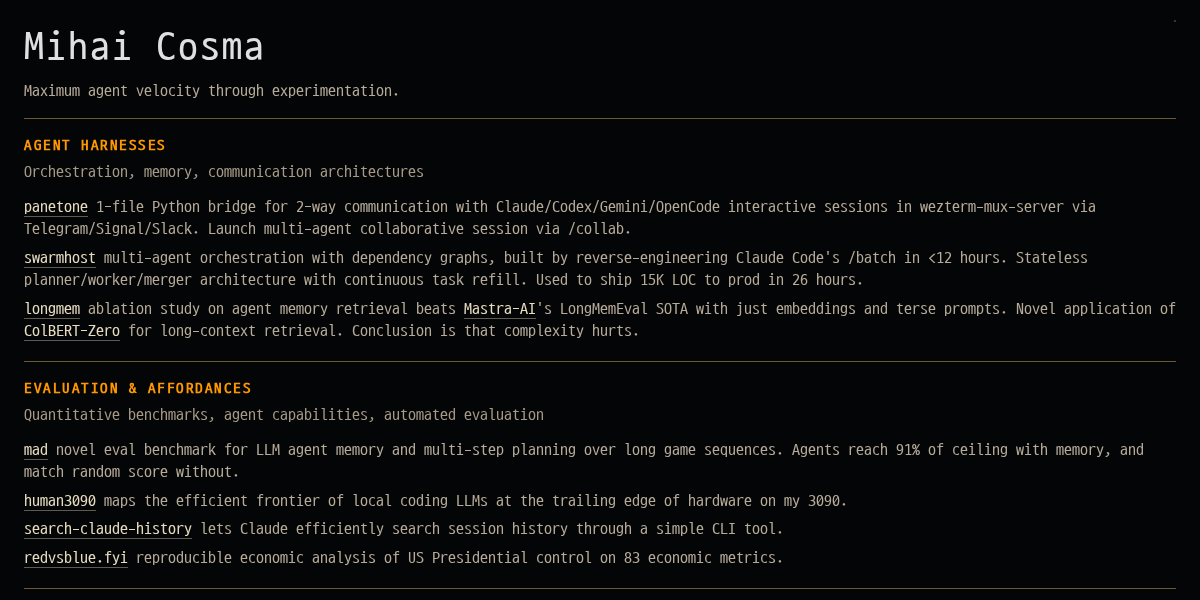
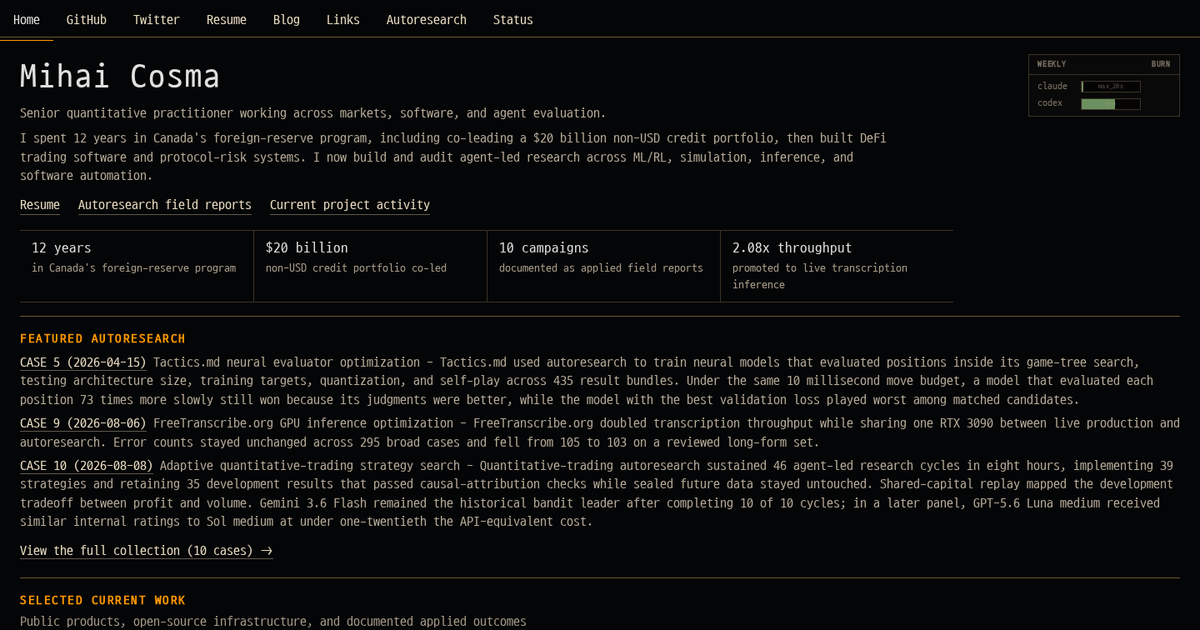
Refresh portfolio positioning and resume

Changed region(s): [[0.0, 0.0, 1.0, 1.0], [0.8633, 0.09, 0.9867, 0.21]]

diff --git a/resume.html b/resume.html
@@ -3,11 +3,14 @@
 <head>
     <meta charset="UTF-8">
     <meta name="viewport" content="width=device-width, initial-scale=1">
-    <title>Mihai Cosma — Resume</title>
+    <title>Mihai Cosma - Resume</title>
+    <meta name="description" content="Resume of Mihai Cosma, a senior quantitative practitioner working across markets, software, and agent evaluation.">
     <link rel="stylesheet" href="/style.css">
     <style>
         .contact { color: #a69987; margin-bottom: 16px; }
         .contact a { color: #a69987; }
+        .resume-summary { max-width: 1120px; margin-bottom: 8px; color: #b6aa99; }
+        .resume-focus { color: #a69987; font-size: 0.9rem; margin-bottom: 4px; }
 
         .job { margin-bottom: 12px; }
         .job-header { display: flex; justify-content: space-between; align-items: baseline; flex-wrap: wrap; gap: 8px; }
@@ -26,12 +29,26 @@
         .edu-title { color: #e0e0e0; }
         .edu-dates { color: #a69987; white-space: nowrap; font-size: 0.9rem; }
 
+        @page { size: Letter; margin: 0.35in; }
+
         @media print {
-            body { background: white; color: #333; }
-            h1 { color: #111; }
-            h2 { color: #b36000; border-top-color: #ccc; }
+            body { background: white; color: #333; padding: 0; font-size: 10pt; line-height: 1.3; }
+            h1 { color: #111; font-size: 24pt; margin-bottom: 1px; }
+            h2 { color: #b36000; border-top-color: #ccc; font-size: 9.5pt; margin-top: 9px; margin-bottom: 3px; padding-top: 9px; }
             a { color: #555; border-bottom-color: #ccc; }
-            .contact, .job-dates, .job-progression, .job-bullets li, .job-title a, .edu-dates { color: #555; }
+            .contact { margin-bottom: 8px; font-size: 9pt; }
+            .resume-summary { margin-bottom: 5px; font-size: 10pt; }
+            .resume-focus { margin-bottom: 0; font-size: 8.75pt; }
+            .projects li { padding: 1px 0; font-size: 9pt; }
+            .projects li a:first-child { font-size: 9.5pt; }
+            .job { margin-bottom: 6px; break-inside: avoid; }
+            .job-dates, .job-progression { font-size: 9pt; }
+            .job-bullets { margin-top: 2px; }
+            .job-bullets li { padding: 0 0 0 13px; font-size: 8.8pt; line-height: 1.22; }
+            .edu-dates { font-size: 9pt; }
+            .links { display: none; }
+            .contact, .resume-focus, .job-dates, .job-progression, .job-bullets li, .job-title a, .edu-dates { color: #555; }
+            .resume-summary { color: #333; }
             .job-title, .edu-title { color: #111; }
             .job-bullets li::before { color: #ccc; }
         }
@@ -61,34 +78,48 @@
         &middot; <a href="https://mihaicosma.com">mihaicosma.com</a>
         &middot; <a href="https://github.com/wakamex">github.com/wakamex</a>
     </p>
+    <p class="resume-summary">Senior finance and quantitative practitioner with 12 years in Canada's foreign-reserve program, including co-leading a $20 billion non-USD credit portfolio and managing credit allocation in a €14 billion portfolio. Built Python trading, fuzzing, and protocol-risk systems in DeFi. Since February 2026, published 10 applied autoresearch field reports across search, ML/RL, simulation, inference, and software automation that explicitly label evidence boundaries, failures, and promotion authority.</p>
+    <p class="resume-focus">Python &middot; SQL &middot; PostgreSQL &middot; JAX &middot; DuckDB &middot; agent evaluation &middot; reinforcement learning &middot; financial markets</p>
 
-    <h2>Selected Technical Projects</h2>
+    <h2>Selected Applied AI and Software Work</h2>
     <ul class="projects">
-        <li><a href="https://github.com/wakamex/panetone">Panetone</a> Python bridge for 2-way agent communication with Claude/Codex/Gemini sessions via Telegram/Signal/Slack. Multi-agent collaboration via /collab.</li>
-        <li><a href="https://github.com/wakamex/swarmhost">Swarmhost</a> Multi-agent orchestration with dependency graphs and continuous task refill. Stateless planner/worker/merger architecture. Shipped 15K LOC to prod in 26 hours.</li>
-        <li><a href="https://github.com/wakamex/longmem">longmem</a> Agent memory retrieval ablation study. Beats Mastra-AI's LongMemEval SOTA with embeddings and terse prompts. Tested ColBERT-Zero; found complexity hurts.</li>
-        <li><a href="https://github.com/wakamex/mad">mad</a> Eval benchmark for LLM agent memory and multi-step planning over long game sequences. Agents reach 91% of ceiling with memory, match random without.</li>
+        <li><a href="/autoresearch.html">Autoresearch field reports</a> Published 10 applied campaigns from February through August 2026 across search, ML/RL, simulation, inference, and software automation. The reports include negative results and distinguish adaptive discovery from promotion evidence.</li>
+        <li><a href="https://github.com/wakamex/agent-orchestration-process">Agent Orchestration Process</a> Built and published a Python CLI for bounded unattended work across eight coding-agent harnesses, with isolated worktrees, deadlines, least-authority profiles, exact session resume, declared artifact validation, and durable evidence.</li>
+        <li><a href="https://tactics.md">Tactics.md</a> Tested 102 CPU-pipeline interventions and uncovered eight correctness defects, then evaluated 435 neural-model result bundles. Under an equal move budget, the model with the best validation loss played worst among matched candidates.</li>
+        <li><a href="https://freetranscribe.org">FreeTranscribe.org</a> Built and operate an AI transcription service with a production-priority GPU queue. A sealed promotion doubled warm inference throughput on a shared RTX 3090 without increasing errors across 295 cases.</li>
+        <li><a href="https://github.com/wakamex/flysim">FlySim</a> Built a public flight-control stack with a CPU reference environment and batched JAX reinforcement learning. Exact replay localized a simulation-to-live coverage gap; retraining eliminated 14% control clipping without weakening live safety limits.</li>
     </ul>
 
     <h2>Work Experience</h2>
 
     <div class="job">
         <div class="job-header">
-            <span class="job-title">DeFi Strategist &middot; <a href="https://veda.tech">Veda Tech</a> / <a href="https://www.euler.finance">Euler Finance</a></span>
-            <span class="job-dates">Jun 2025 – Present</span>
+            <span class="job-title">DeFi Strategist &middot; <a href="https://veda.tech">Veda</a></span>
+            <span class="job-dates">Sep 2025 - Jul 2026</span>
         </div>
         <ul class="job-bullets">
-            <li>Shipped 15K LOC to prod in 26 hours to monitor on-chain transactions in real-time</li>
+            <li>Managed and curated vaults; produced protocol-risk analysis and monitored transaction, liquidity, oracle, and smart-contract data</li>
+            <li>Used Python, SQL, and PostgreSQL to combine blockchain and internal data, investigate anomalies, and support decisions</li>
+        </ul>
+    </div>
+
+    <div class="job">
+        <div class="job-header">
+            <span class="job-title">DeFi Strategist &middot; <a href="https://www.euler.finance">Euler Finance</a></span>
+            <span class="job-dates">Jun 2025 - Sep 2025</span>
+        </div>
+        <ul class="job-bullets">
+            <li>Led go-to-market and outreach for the EulerSwap protocol</li>
         </ul>
     </div>
 
     <div class="job">
         <div class="job-header">
             <span class="job-title">DeFi Strategist &middot; <a href="https://delv.tech">DELV</a></span>
-            <span class="job-dates">Dec 2021 – Apr 2025</span>
+            <span class="job-dates">Dec 2021 - Apr 2025</span>
         </div>
         <ul class="job-bullets">
-            <li>Wrote <a href="https://github.com/delvtech/agent0">agent0</a>: Python SDK and fuzzing framework for Hyperdrive protocol's agent-based trading system</li>
+            <li>Built <a href="https://github.com/delvtech/agent0">agent0</a>, the Python SDK and fuzzing framework for Hyperdrive's agent-based trading system</li>
             <li>Co-authored <a href="https://arxiv.org/abs/2404.05036">"The Hyperdrive Protocol: An Automated Market Maker for Fixed and Variable Rates"</a></li>
             <li>Designed incentive mechanisms leading to record protocol volume</li>
         </ul>
@@ -97,12 +128,14 @@
     <div class="job">
         <div class="job-header">
             <span class="job-title">Foreign Reserves &middot; <a href="https://www.bankofcanada.ca">Bank of Canada</a></span>
-            <span class="job-dates">Jul 2009 – Dec 2021</span>
+            <span class="job-dates">Jul 2009 - Dec 2021</span>
         </div>
         <p class="job-progression">Research Assistant → Trader Analyst → Portfolio Manager → Policy Analyst → Senior Portfolio Manager</p>
         <ul class="job-bullets">
-            <li>Co-managed $20B non-USD credit portfolio and built quantitative trading models</li>
-            <li>Developed multi-strategy security selection using neural networks and gradient boosted machines</li>
+            <li>Co-led a $20 billion non-USD credit portfolio comprising SSA and EGB securities in EUR and GBP</li>
+            <li>Outperformed a dynamic benchmark through discretionary credit allocation in a €14 billion euro SSA portfolio</li>
+            <li>Built quantitative models, a portfolio-construction framework, and a backtesting framework used to challenge modelling assumptions</li>
+            <li>Briefed senior management on fixed-income markets, portfolio risks, and investment recommendations</li>
             <li>Coded cross-currency swap pricer and interest rate simulation for capital efficiency <a href="https://www.bankofcanada.ca/2016/03/staff-discussion-paper-2016-9/">(paper)</a></li>
         </ul>
     </div>
@@ -116,6 +149,7 @@
     <div class="links">
         <a href="/">Home</a>
         <a href="/autoresearch.html">Autoresearch</a>
+        <a href="/projects.html">Project activity</a>
         <a href="https://github.com/wakamex">GitHub</a>
         <a href="mailto:mcosma@gmail.com">mcosma@gmail.com</a>
     </div>

diff --git a/index.html b/index.html
@@ -3,17 +3,21 @@
 <head>
     <meta charset="UTF-8">
     <meta name="viewport" content="width=device-width, initial-scale=1">
-    <title>Mihai Cosma</title>
-    <meta name="description" content="Maximum agent velocity through experimentation. Agent harnesses, evals, and ML/RL research.">
+    <title>Mihai Cosma - Quantitative and AI Systems Practitioner</title>
+    <meta name="description" content="Senior quantitative practitioner building and evaluating AI agents, reinforcement-learning systems, and production software.">
     <meta property="og:title" content="Mihai Cosma">
-    <meta property="og:description" content="Maximum agent velocity through experimentation. Agent harnesses, evals, and ML/RL research.">
+    <meta property="og:description" content="Senior quantitative practitioner building and evaluating AI agents, reinforcement-learning systems, and production software.">
     <meta property="og:image" content="https://mihaicosma.com/og-image.png">
+    <meta property="og:image:width" content="1200">
+    <meta property="og:image:height" content="630">
+    <meta property="og:image:alt" content="Mihai Cosma's quantitative and AI systems portfolio">
     <meta property="og:url" content="https://mihaicosma.com">
     <meta property="og:type" content="website">
     <meta name="twitter:card" content="summary_large_image">
     <meta name="twitter:title" content="Mihai Cosma">
-    <meta name="twitter:description" content="Maximum agent velocity through experimentation. Agent harnesses, evals, and ML/RL research.">
+    <meta name="twitter:description" content="Senior quantitative practitioner building and evaluating AI agents, reinforcement-learning systems, and production software.">
     <meta name="twitter:image" content="https://mihaicosma.com/og-image.png">
+    <meta name="twitter:image:alt" content="Mihai Cosma's quantitative and AI systems portfolio">
     <link rel="stylesheet" href="/style.css">
 </head>
 <body>
@@ -35,6 +39,18 @@
 <!-- GENERATED SITE NAVIGATION:END -->
     <a href="/status.html" class="meters-link"><div class="meters" id="meters"></div></a>
     <h1>Mihai Cosma</h1>
+    <p class="tagline">Senior quantitative practitioner working across markets, software, and agent evaluation.</p>
+    <p class="intro profile-intro">I spent 12 years in Canada's foreign-reserve program, including co-leading a $20 billion non-USD credit portfolio, then built DeFi trading software and protocol-risk systems. I now build and audit agent-led research across ML/RL, simulation, inference, and software automation.</p>
+    <div class="profile-links" aria-label="Professional links">
+        <a href="/autoresearch.html">Autoresearch field reports</a>
+        <a href="/projects.html">Current project activity</a>
+    </div>
+    <ul class="profile-facts" aria-label="Selected experience and results">
+        <li><span class="profile-fact-value">12 years</span><span>in Canada's foreign-reserve program</span></li>
+        <li><span class="profile-fact-value">$20 billion</span><span>non-USD credit portfolio co-led</span></li>
+        <li><span class="profile-fact-value">10 campaigns</span><span>documented as applied field reports</span></li>
+        <li><span class="profile-fact-value">2.08x throughput</span><span>promoted to live transcription inference</span></li>
+    </ul>
 
     <!-- AUTORESEARCH:START -->
     <section class="featured-research" aria-labelledby="featured-research-title">
@@ -48,37 +64,18 @@
     </section>
     <!-- AUTORESEARCH:END -->
 
-    <h2>Agent Harnesses</h2>
-    <p class="section-note">Orchestration, memory, communication architectures</p>
-    <ul>
-        <li><a href="https://github.com/wakamex/panetone">panetone</a> 1-file Python bridge for 2-way communication with Claude/Codex/Gemini/OpenCode interactive sessions in wezterm-mux-server via Telegram/Signal/Slack. Launch multi-agent collaborative session via /collab.</li>
-        <li><a href="https://github.com/wakamex/swarmhost">swarmhost</a> multi-agent orchestration with dependency graphs, built by reverse-engineering Claude Code's /batch in &lt;12 hours. Stateless planner/worker/merger architecture with continuous task refill. Used to ship 15K LOC to prod in 26 hours.</li>
-        <li><a href="https://github.com/wakamex/longmem">longmem</a> ablation study on agent memory retrieval beats <a href="https://mastra.ai/docs/memory/observational-memory">Mastra-AI</a>'s LongMemEval SOTA with just embeddings and terse prompts. Novel application of <a href="https://huggingface.co/lightonai/ColBERT-Zero">ColBERT-Zero</a> for long-context retrieval. Conclusion is that complexity hurts.</li>
+    <h2>Selected Current Work</h2>
+    <p class="section-note">Public products, open-source infrastructure, and documented applied outcomes</p>
+    <ul class="current-work">
+        <li><a href="https://github.com/wakamex/agent-orchestration-process">Agent Orchestration Process</a> runs bounded unattended jobs across eight coding-agent CLIs. Its Python CLI isolates work, enforces deadlines and least-authority execution profiles, resumes exact provider sessions, validates declared artifacts, and retains durable evidence. <a href="https://pypi.org/project/agent-orchestration-process/">PyPI</a></li>
+        <li><a href="https://tactics.md">Tactics.md</a> used autoresearch to test 102 CPU-pipeline interventions, uncover eight correctness defects, and evaluate 435 neural-model result bundles. Under the same move budget, the model with the best validation loss played worst among matched candidates.</li>
+        <li><a href="https://freetranscribe.org">FreeTranscribe.org</a> is an AI transcription service with private transcript links, subscriptions, and a production-priority GPU queue. A sealed promotion doubled warm inference throughput on one shared RTX 3090 without increasing errors across 295 cases.</li>
+        <li><a href="https://github.com/wakamex/flysim">FlySim</a> is an Apache-licensed flight-control stack with a CPU reference environment and batched JAX reinforcement learning. Exact replay localized a simulation-to-live coverage gap, and retraining eliminated 14% control clipping without weakening the live safety limits.</li>
+        <li><a href="https://github.com/wakamex/clanker-analytics">Clanker Analytics</a> is a DuckDB-backed Python package for analyzing local Claude Code, Codex, and Gemini session logs. It powers my public <a href="/projects.html">project activity view</a>, which reports human attention, agent resources, and automation separately. <a href="https://pypi.org/project/clanker-analytics/">PyPI</a></li>
     </ul>
 
-    <h2>Evaluation & Affordances</h2>
-    <p class="section-note">Quantitative benchmarks, agent capabilities, automated evaluation</p>
-    <ul>
-        <li><a href="https://github.com/wakamex/mad">mad</a> novel eval benchmark for LLM agent memory and multi-step planning over long game sequences. Agents reach 91% of ceiling with memory, and match random score without.</li>
-        <li><a href="https://github.com/wakamex/human3090">human3090</a> maps the efficient frontier of local coding LLMs at the trailing edge of hardware on my 3090.</li>
-        <li><a href="https://github.com/wakamex/search-claude-history">search-claude-history</a> lets Claude efficiently search session history through a simple CLI tool.</li>
-        <li><a href="https://redvsblue.fyi">redvsblue.fyi</a> reproducible economic analysis of US Presidential control on 83 economic metrics.</li>
-    </ul>
-
-    <h2>ML/RL Research</h2>
-    <p class="section-note">Novel architectures, reinforcement learning, empirical results</p>
-    <ul>
-        <li><a href="https://github.com/wakamex/rc">reservoir computing for LLMs</a> adds ESN sidecar to Qwen3.5-0.8B. 3x average exact-match across 23 benchmarks (0.12→0.36) at negligible perplexity cost (+0.3%). Perfect on passkey retrieval, near-perfect on multi-digit arithmetic, strong gains on variable tracking and program tracing. Kicked off with <a href="https://mihaicosma.com/rc.html">/collab</a>.</li>
-        <li><a href="https://github.com/wakamex/mnk">mnk</a>-game AlphaZero-style in Rust. Checkpoint transfer worked, but the campaign did not establish an advantage over matched scratch training. Hyperparameter sweeps and 75x speedup over reference Python, but improvements don't stack.</li>
-        <li><a href="https://github.com/wakamex/spillage">energy spillage</a> attempt to repurpose ICLR 2026 hallucination metric for test-time tree search. <a href="https://mihaicosma.com/spillage.html">/collab</a> for research design. Found energy spillage is confidence proxy, and underperforms min(log_prob). Killed via predefined go/no-go gates.</li>
-    </ul>
-
-    <h2>Things I Built</h2>
-    <ul>
-        <li><a href="https://gitrep.fyi">gitrep.fyi</a> star-based reputation scores for GitHub contributors. Sort issues and PRs by who filed them, not just when. Plus star histories and agent-friendly unlimited API.</li>
-        <li><a href="https://github.com/wakamex/clanker-analytics">clanker-analytics</a> token usage analytics for AI coding tools. Reads local session logs from Claude Code, Codex, and Gemini CLI with per-project breakdowns using DuckDB. <a href="https://pypi.org/project/clanker-analytics/">uv tool install clanker-analytics</a>.</li>
-        <li><a href="https://github.com/wakamex/wakterm">wakterm</a> fork of WezTerm that makes Claude/Codex/Gemini/OpenCode first-class terminal citizens. Agent lifecycle CLI, turn-state tracking, session persistence, and 26 upstream bug fixes. The terminal layer underneath panetone.</li>
-    </ul>
+    <h2>Professional Foundation</h2>
+    <p class="professional-foundation">At the Bank of Canada, I worked across trading, portfolio management, quantitative modelling, and policy before co-leading a $20 billion non-USD credit portfolio. At DELV, Euler, and Veda, I built Python trading and fuzzing infrastructure, worked on market strategy, and analyzed protocol risk using on-chain and internal data. <a href="/resume.html">Full resume</a></p>
 
     <script src="/meters.js"></script>
     <script src="/site-nav.js"></script>

diff --git a/style.css b/style.css
@@ -34,6 +34,52 @@ h1 {
     margin-bottom: 20px;
 }
 
+.profile-intro {
+    max-width: 1060px;
+    margin-bottom: 12px;
+}
+
+.profile-links {
+    display: flex;
+    flex-wrap: wrap;
+    gap: 8px 22px;
+    margin-bottom: 18px;
+}
+
+.profile-facts {
+    display: grid;
+    grid-template-columns: repeat(4, minmax(0, 1fr));
+    max-width: 1120px;
+    margin: 0 0 8px;
+    border-top: 1px solid #3d3428;
+    border-bottom: 1px solid #3d3428;
+}
+
+.profile-facts li {
+    min-height: 74px;
+    padding: 10px 14px;
+    border-left: 1px solid #3d3428;
+    color: #a69987;
+    font-size: 0.875rem;
+}
+
+.profile-facts li:first-child { border-left: 0; }
+
+.profile-fact-value {
+    display: block;
+    margin-bottom: 2px;
+    color: #e0e0e0;
+    font-size: 1.05rem;
+    font-variant-numeric: tabular-nums;
+}
+
+.current-work li { padding: 5px 0; }
+
+.professional-foundation {
+    max-width: 1120px;
+    margin-bottom: 20px;
+}
+
 h2 {
     font-size: 0.95rem;
     text-transform: uppercase;
@@ -344,7 +390,13 @@ a:hover { border-bottom-color: #e8dcc0; }
 @media (max-width: 600px) {
     body { padding: 12px 10px; font-size: 0.875rem; }
     h1 { font-size: 1.5rem; }
+    .meters-link { display: none; }
     .links { gap: 16px; flex-wrap: wrap; }
+    .profile-links { gap: 6px 16px; }
+    .profile-facts { grid-template-columns: repeat(2, minmax(0, 1fr)); }
+    .profile-facts li { min-height: 68px; padding: 8px 10px; }
+    .profile-facts li:nth-child(3) { border-left: 0; border-top: 1px solid #3d3428; }
+    .profile-facts li:nth-child(4) { border-top: 1px solid #3d3428; }
 
 }
 
